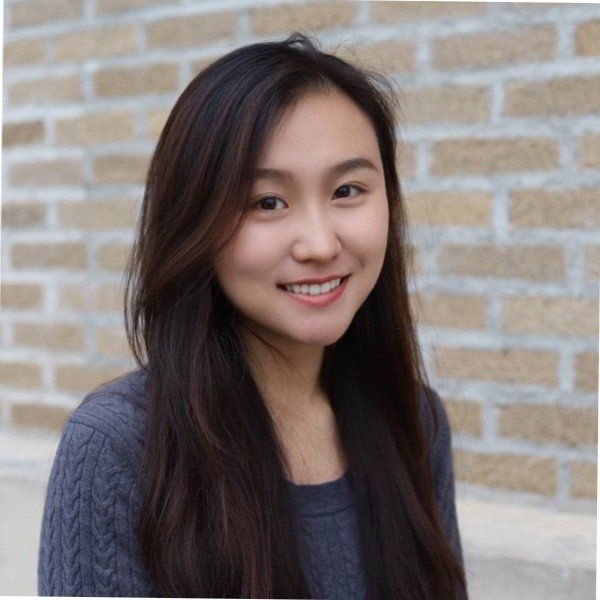
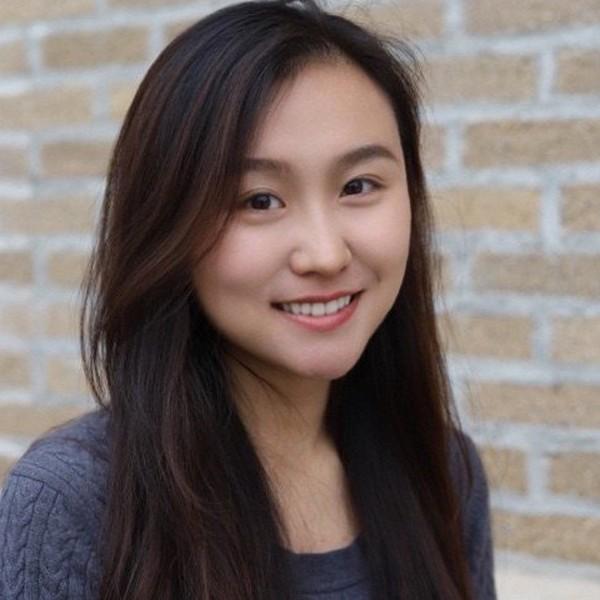
Remove skills & languages from Career; make profile photo fill its frame on every browser
The photo is now pre-cropped instead of scaled with a CSS transform,
which Safari doesn't clip to the rounded frame.

Claude-Session: https://claude.ai/code/session_01QTpUv1j9rMyNRHVfsr3yab

diff --git a/fr/career.html b/fr/career.html
@@ -152,28 +152,6 @@
       </ol>
     </section>
 
-    <section class="section container narrow">
-      <h2>Compétences et langues</h2>
-      <ul class="tags">
-        <li>Partenariats d'innovation</li>
-        <li>Veille technologique</li>
-        <li>Rédaction de demandes de subvention</li>
-        <li>Fermentation et systèmes protéiques</li>
-        <li>ADN recombinant</li>
-        <li>Ingénierie enzymatique</li>
-        <li>PCR</li>
-        <li>Développement de produits</li>
-        <li>Évaluation sensorielle</li>
-        <li>HACCP</li>
-        <li>Intelligence artificielle (IA)</li>
-      </ul>
-      <ul class="tags alt">
-        <li>Anglais · Compétence professionnelle complète</li>
-        <li>Français · Langue maternelle</li>
-        <li>Mandarin · Langue maternelle</li>
-        <li>Espagnol · Notions de base</li>
-      </ul>
-    </section>
 
     <section class="container">
       <div class="contact-band">

diff --git a/es/career.html b/es/career.html
@@ -152,28 +152,6 @@
       </ol>
     </section>
 
-    <section class="section container narrow">
-      <h2>Habilidades e idiomas</h2>
-      <ul class="tags">
-        <li>Alianzas de innovación</li>
-        <li>Búsqueda de tecnologías</li>
-        <li>Redacción de subvenciones</li>
-        <li>Fermentación y sistemas proteicos</li>
-        <li>ADN recombinante</li>
-        <li>Ingeniería enzimática</li>
-        <li>PCR</li>
-        <li>Desarrollo de productos</li>
-        <li>Evaluación sensorial</li>
-        <li>HACCP</li>
-        <li>Inteligencia artificial (IA)</li>
-      </ul>
-      <ul class="tags alt">
-        <li>Inglés · Competencia profesional completa</li>
-        <li>Francés · Nativo</li>
-        <li>Chino mandarín · Nativo</li>
-        <li>Español · Básico</li>
-      </ul>
-    </section>
 
     <section class="container">
       <div class="contact-band">

diff --git a/career.html b/career.html
@@ -152,28 +152,6 @@
       </ol>
     </section>
 
-    <section class="section container narrow">
-      <h2>Skills &amp; languages</h2>
-      <ul class="tags">
-        <li>Innovation partnerships</li>
-        <li>Technology scouting</li>
-        <li>Grant writing</li>
-        <li>Fermentation &amp; protein systems</li>
-        <li>Recombinant DNA</li>
-        <li>Enzyme engineering</li>
-        <li>PCR</li>
-        <li>Product development</li>
-        <li>Sensory evaluation</li>
-        <li>HACCP</li>
-        <li>Artificial intelligence (AI)</li>
-      </ul>
-      <ul class="tags alt">
-        <li>English · Full professional</li>
-        <li>French · Native</li>
-        <li>Mandarin Chinese · Native</li>
-        <li>Spanish · Elementary</li>
-      </ul>
-    </section>
 
     <section class="container">
       <div class="contact-band">

diff --git a/zh/career.html b/zh/career.html
@@ -152,28 +152,6 @@
       </ol>
     </section>
 
-    <section class="section container narrow">
-      <h2>技能与语言</h2>
-      <ul class="tags">
-        <li>创新合作</li>
-        <li>技术发掘</li>
-        <li>经费申请撰写</li>
-        <li>发酵与蛋白体系</li>
-        <li>重组 DNA</li>
-        <li>酶工程</li>
-        <li>PCR</li>
-        <li>产品开发</li>
-        <li>感官评价</li>
-        <li>HACCP</li>
-        <li>人工智能（AI）</li>
-      </ul>
-      <ul class="tags alt">
-        <li>英语 · 专业水平</li>
-        <li>法语 · 母语</li>
-        <li>普通话 · 母语</li>
-        <li>西班牙语 · 初级</li>
-      </ul>
-    </section>
 
     <section class="container">
       <div class="contact-band">

diff --git a/styles.css b/styles.css
@@ -158,8 +158,8 @@ h3 { margin: 0; font-size: 1.15rem; line-height: 1.3; }
   box-shadow: var(--shadow);
   overflow: hidden;
 }
-.portrait.has-photo { padding: 0; }
-.portrait img { width: 100%; height: 100%; object-fit: cover; object-position: 50% 30%; transform: scale(1.25); transform-origin: 50% 35%; }
+.portrait.has-photo { padding: 0; position: relative; -webkit-mask-image: -webkit-radial-gradient(white, black); }
+.portrait img { position: absolute; inset: 0; display: block; width: 100%; height: 100%; object-fit: cover; object-position: 50% 30%; }
 
 .actions { display: flex; flex-wrap: wrap; gap: 12px; margin-top: 28px; }
 .button {
